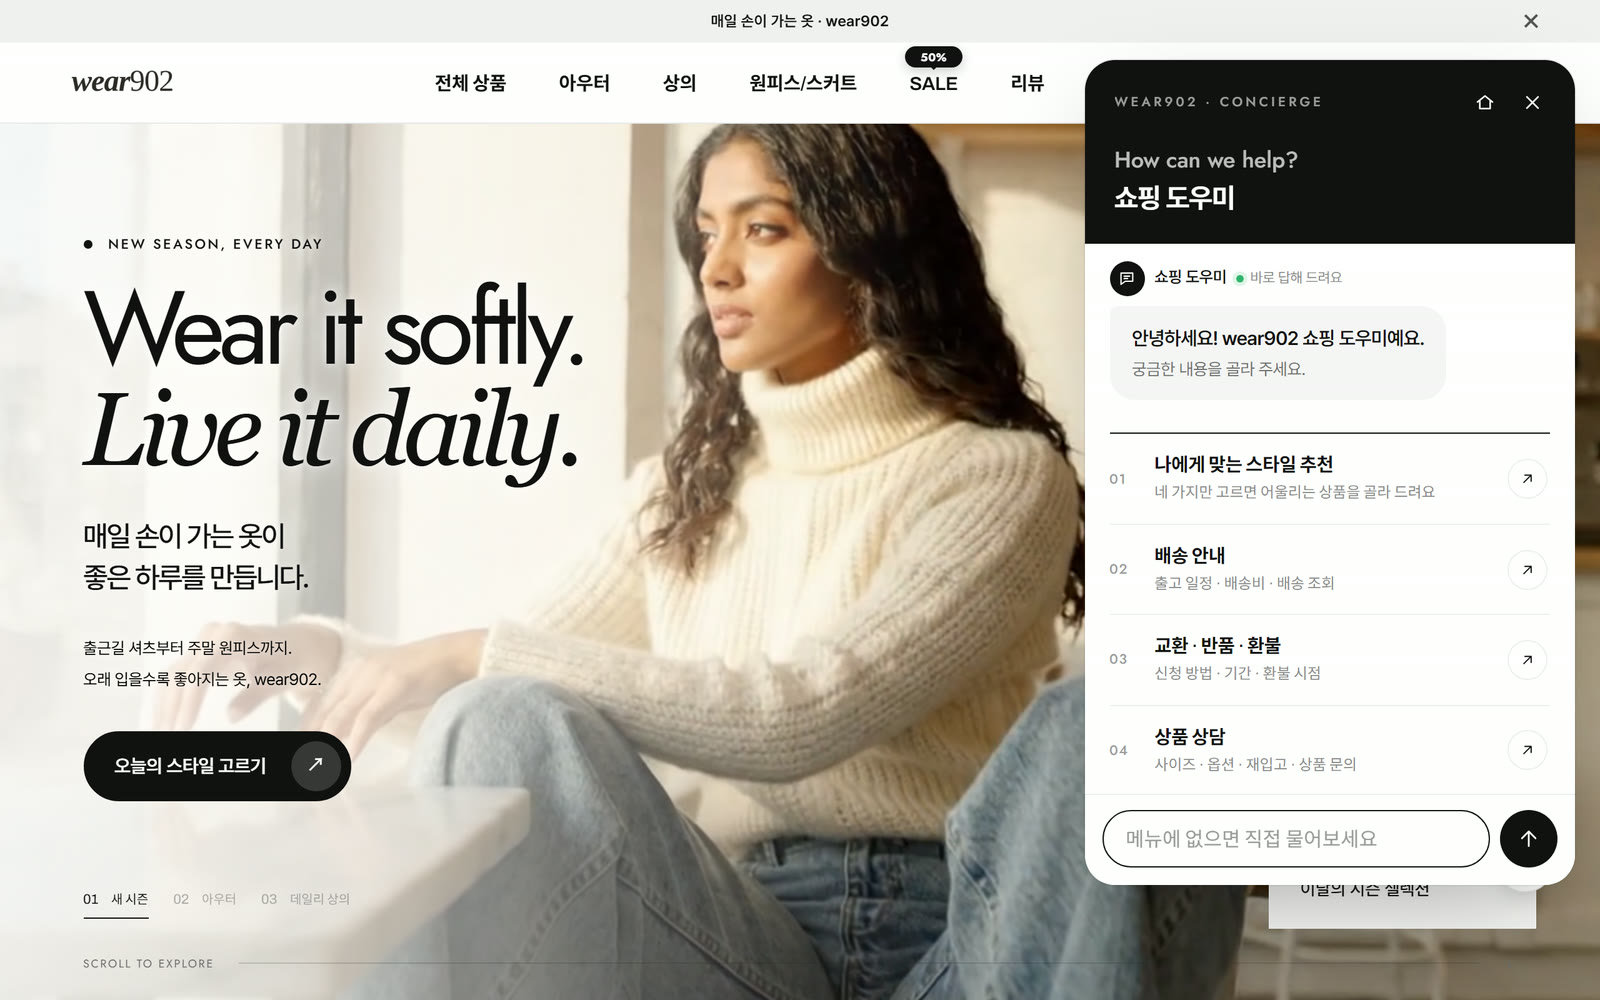
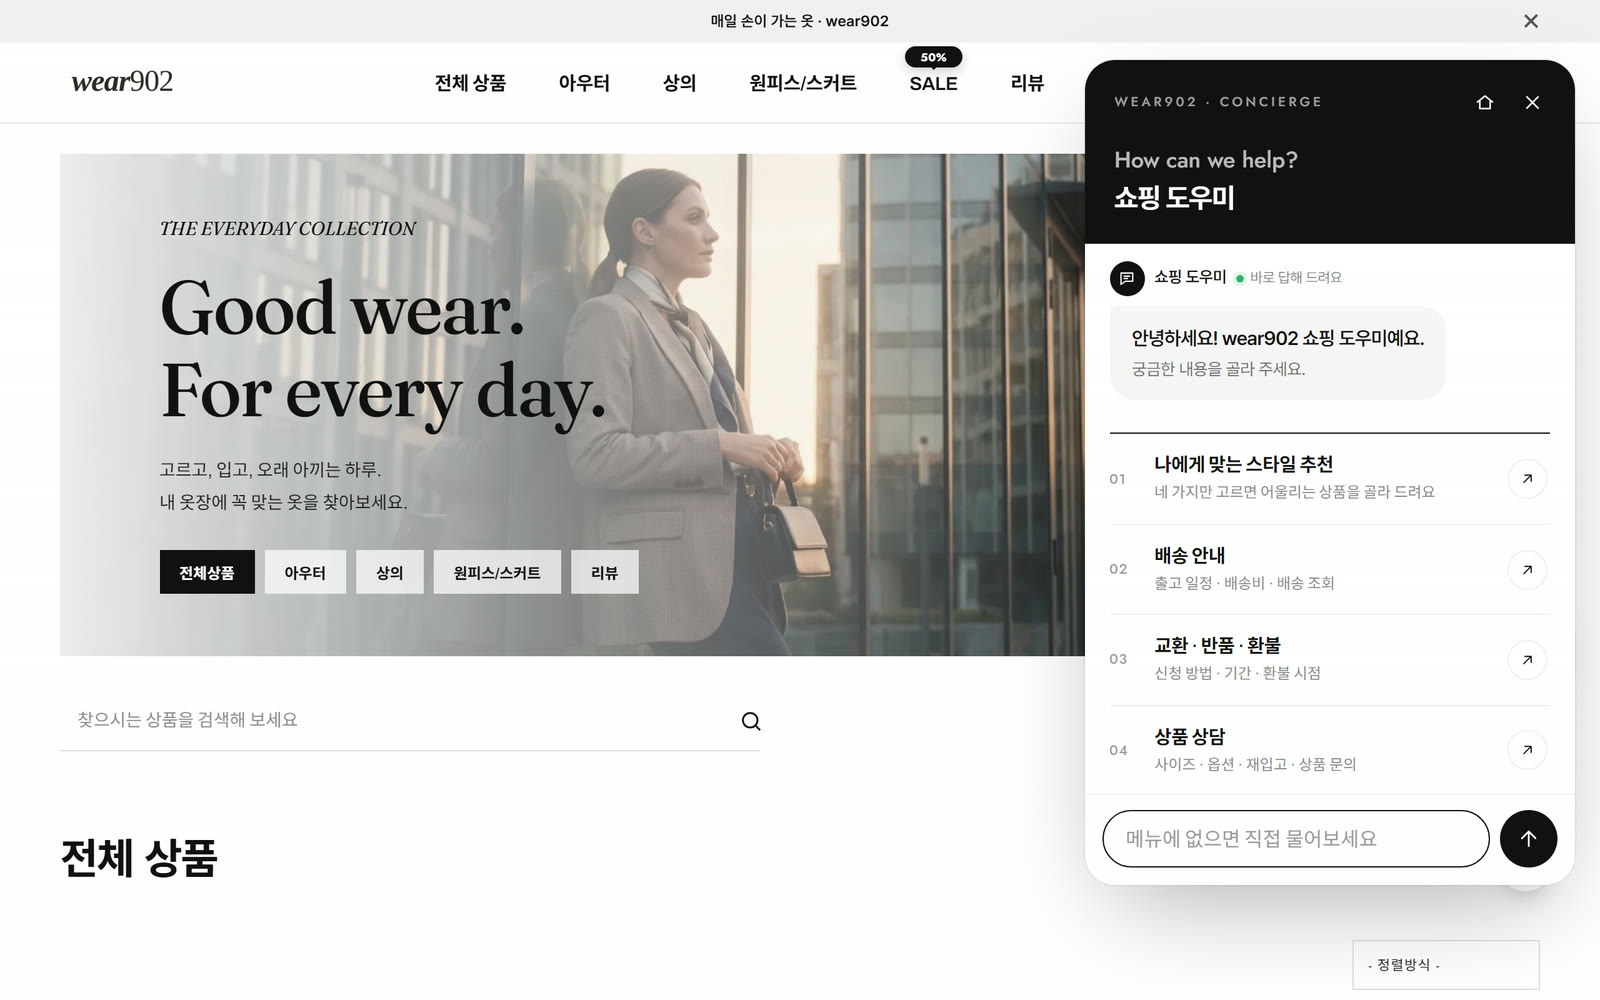
상세 v3 : 트렌치 모델 첫 화면을 모두 뺌 — 맨 위 PC 는 2번 장면(블루 수트), 챗봇 PC 는 전체 상품 목록 위, 카운트다운 팝업 사진은 블라우스 장면

diff --git a/docs/tools/designcenter/feature-shots.js b/docs/tools/designcenter/feature-shots.js
@@ -81,7 +81,12 @@ function demoSheet() {
 
 const shots = {
   /* 첫 화면 (PC · 휴대폰) */
-  'home-pc': async pg => { await open(pg, '/', PC); },
+  // 첫 화면 1번 장면(트렌치 모델 영상)은 쓰지 않는다 — 스크롤해서 2번 장면(블루 수트 · Layer up)으로
+  'home-pc': async pg => {
+    await open(pg, '/', PC); await noFloat(pg);
+    const t = await rect(pg, '.pe-hero-track');
+    await pg.evaluate(y => window.scrollTo(0, y), Math.round(t.y + t.height * 0.38)); await sleep(2500);
+  },
   // 휴대폰은 첫 화면 · 팝업과 다른 장면 (같은 트렌치 모델이 되풀이되지 않게) : 상의 목록
   'home-mobile': async pg => { await open(pg, '/product/list.html?cate_no=25', MOBILE); },
 
@@ -109,6 +114,11 @@ const shots = {
   'countdown-pop': async pg => {
     await open(pg, '/', PC, { keepPop: true }); await sleep(1500);
     await click(pg, '.cz-pop__dots button'); await sleep(1200);   // 타이머가 붙은 첫 장
+    await pg.evaluate(() => { for (let i = 1; i < 5000; i++) clearInterval(i); });   // 다음 장으로 넘어가지 않게 (타이머 숫자도 멈춤)
+    // 팝업 사진(트렌치 모델)은 다른 상세 사진과 겹쳐서 블라우스(수영장 · 선글라스) 장면으로 바꿔 찍는다 (사진은 사장님이 설정에서 바꾸는 칸)
+    await pg.evaluate(() => { const box = document.querySelector('.cz-pop__slide--timer .cz-pop__img'); const im = box && box.querySelector('img'); const u = 'https://ecimg.cafe24img.com/pg3434b74016291004/wear902/wear/scene-blouse.webp';
+      if (im) { im.removeAttribute('srcset'); im.src = u; im.style.objectPosition = '50% 40%'; } else if (box) box.style.backgroundImage = 'url(' + u + ')'; });
+    await sleep(2000);
     const r = await rect(pg, '.cz-pop__box');
     return { clip: { x: r.x - 30, y: r.y - 30, width: r.width + 60, height: r.height + 60 } };
   },
@@ -158,7 +168,7 @@ const shots = {
 
   /* 7. 24시 챗봇 */
   'chat': async pg => { await open(pg, '/', MOBILE); await click(pg, '.wh-fab'); await sleep(3500); },
-  'chat-pc': async pg => { await open(pg, '/', PC); await click(pg, '.wh-fab'); await sleep(3500); },
+  'chat-pc': async pg => { await open(pg, '/product/list.html?cate_no=28', PC); await click(pg, '.wh-fab'); await sleep(3500); },   // 첫 화면이 아닌 전체 상품 목록 위에서
 
   /* 8. 상담 · CRM 관리 페이지 ([예시] 기록) */
   'admin': async pg => {
